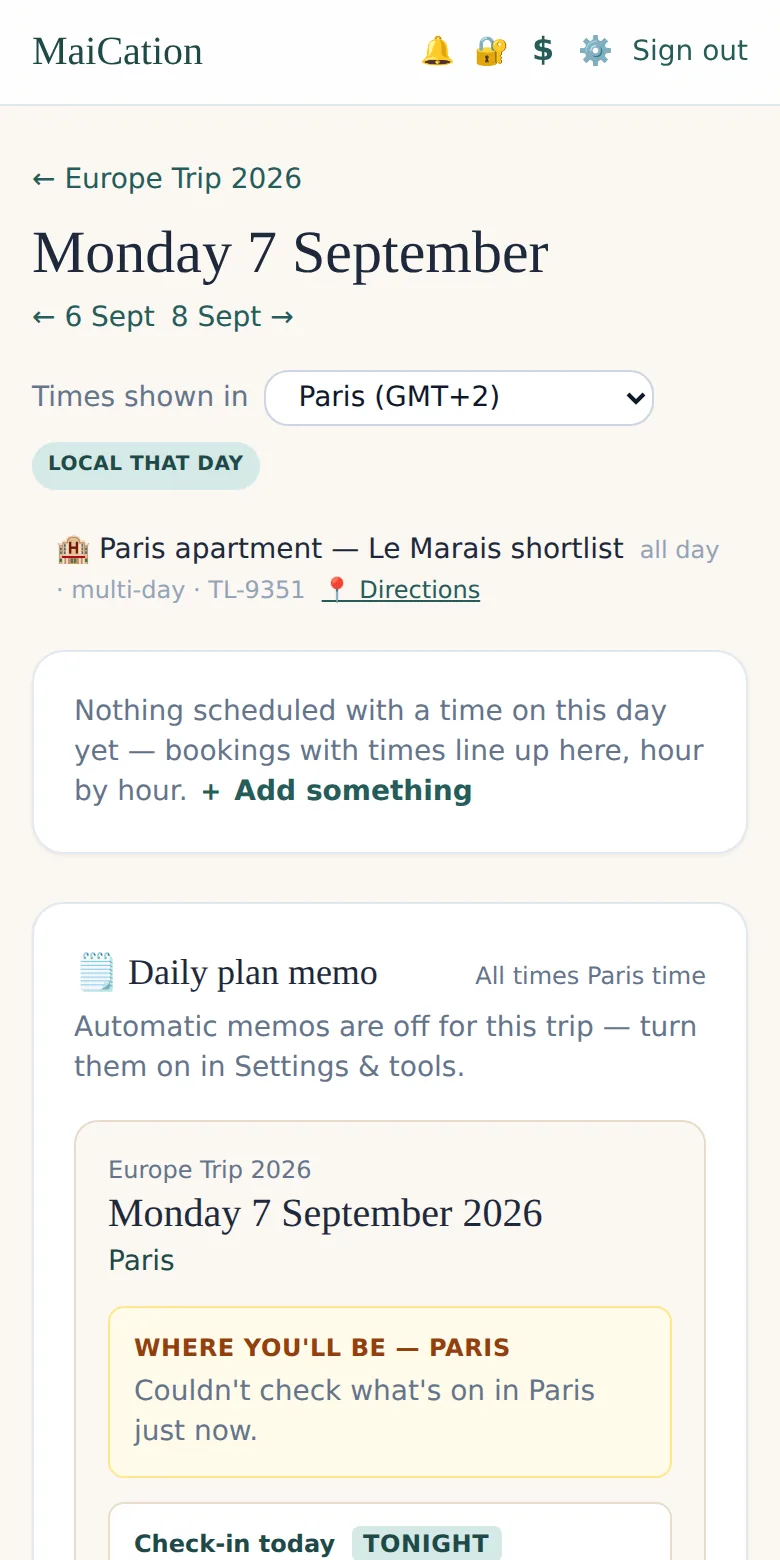
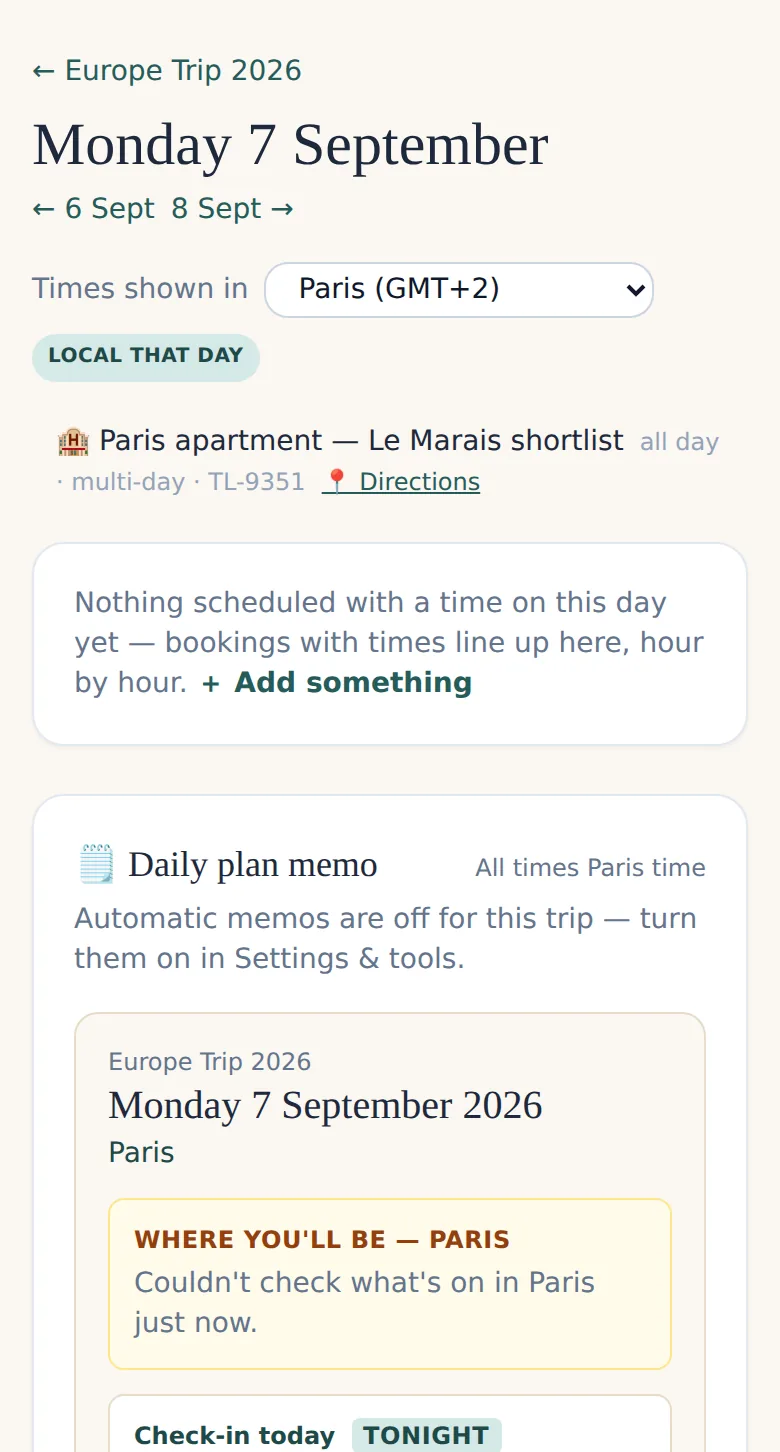
MaiCation screenshots: crop the app's top bar out
The bar showed the signed-in account's name and the app's icon row,
neither of which belongs on the site. The three screenshots and the home
page's phone crop now start at the page heading; dimensions updated.

Claude-Session: https://claude.ai/code/session_01HSdc4CUaVvrP6Ee25qvuo8

diff --git a/maication/index.html b/maication/index.html
@@ -150,7 +150,7 @@
     <small>14 days with everything on, no card needed.</small>
   </div>
   <figure class="shot">
-    <img src="/maication/assets/trip.webp" width="1600" height="1072" alt="The trip page for Europe Trip 2026 on a laptop: a header with the cost so far and a timeline button, then the journey leg by leg with the booked flight and stay on each card." fetchpriority="high">
+    <img src="/maication/assets/trip.webp" width="1600" height="1012" alt="The trip page for Europe Trip 2026 on a laptop: a header with the cost so far and a timeline button, then the journey leg by leg with the booked flight and stay on each card." fetchpriority="high">
     <figcaption class="cap">The trip page on a laptop. Every new account starts with this sample trip so there's something to poke at.</figcaption>
   </figure>
 </header>
@@ -201,7 +201,7 @@
     <h2>On the phone, once you're away</h2>
     <div class="pair">
       <div class="phone">
-        <img src="/maication/assets/memo-phone.webp" width="780" height="2240" alt="The day page for Monday 7 September on a phone: the time zone in use, the Paris apartment check-in with its reference, and the daily memo with what needs doing." loading="lazy">
+        <img src="/maication/assets/memo-phone.webp" width="780" height="2132" alt="The day page for Monday 7 September on a phone: the time zone in use, the Paris apartment check-in with its reference, and the daily memo with what needs doing." loading="lazy">
       </div>
       <div>
         <h3>The day page</h3>
@@ -211,7 +211,7 @@
       </div>
     </div>
     <figure class="shot">
-      <img src="/maication/assets/budget.webp" width="1600" height="1000" alt="The budget page: a target per category as a lump sum or a nightly rate, with budgeted, booked, paid and variance under each." loading="lazy">
+      <img src="/maication/assets/budget.webp" width="1600" height="940" alt="The budget page: a target per category as a lump sum or a nightly rate, with budgeted, booked, paid and variance under each." loading="lazy">
       <figcaption class="cap">The budget. One sheet for the trip, a target per category, and booking confirmations tick themselves off as paid.</figcaption>
     </figure>
   </div>

diff --git a/index.html b/index.html
@@ -852,7 +852,7 @@
       </div>
     </div>
     <div class="entry-vis">
-      <img class="entry-shot" src="/maication/assets/memo-phone-short.webp" width="780" height="1560" alt="MaiCation's day page on a phone: Monday 7 September in Paris, the apartment check-in with its reference, and the daily memo.">
+      <img class="entry-shot" src="/maication/assets/memo-phone-short.webp" width="780" height="1452" alt="MaiCation's day page on a phone: Monday 7 September in Paris, the apartment check-in with its reference, and the daily memo.">
       <p class="vignette-note">The day page, on a phone</p>
     </div>
   </article>
